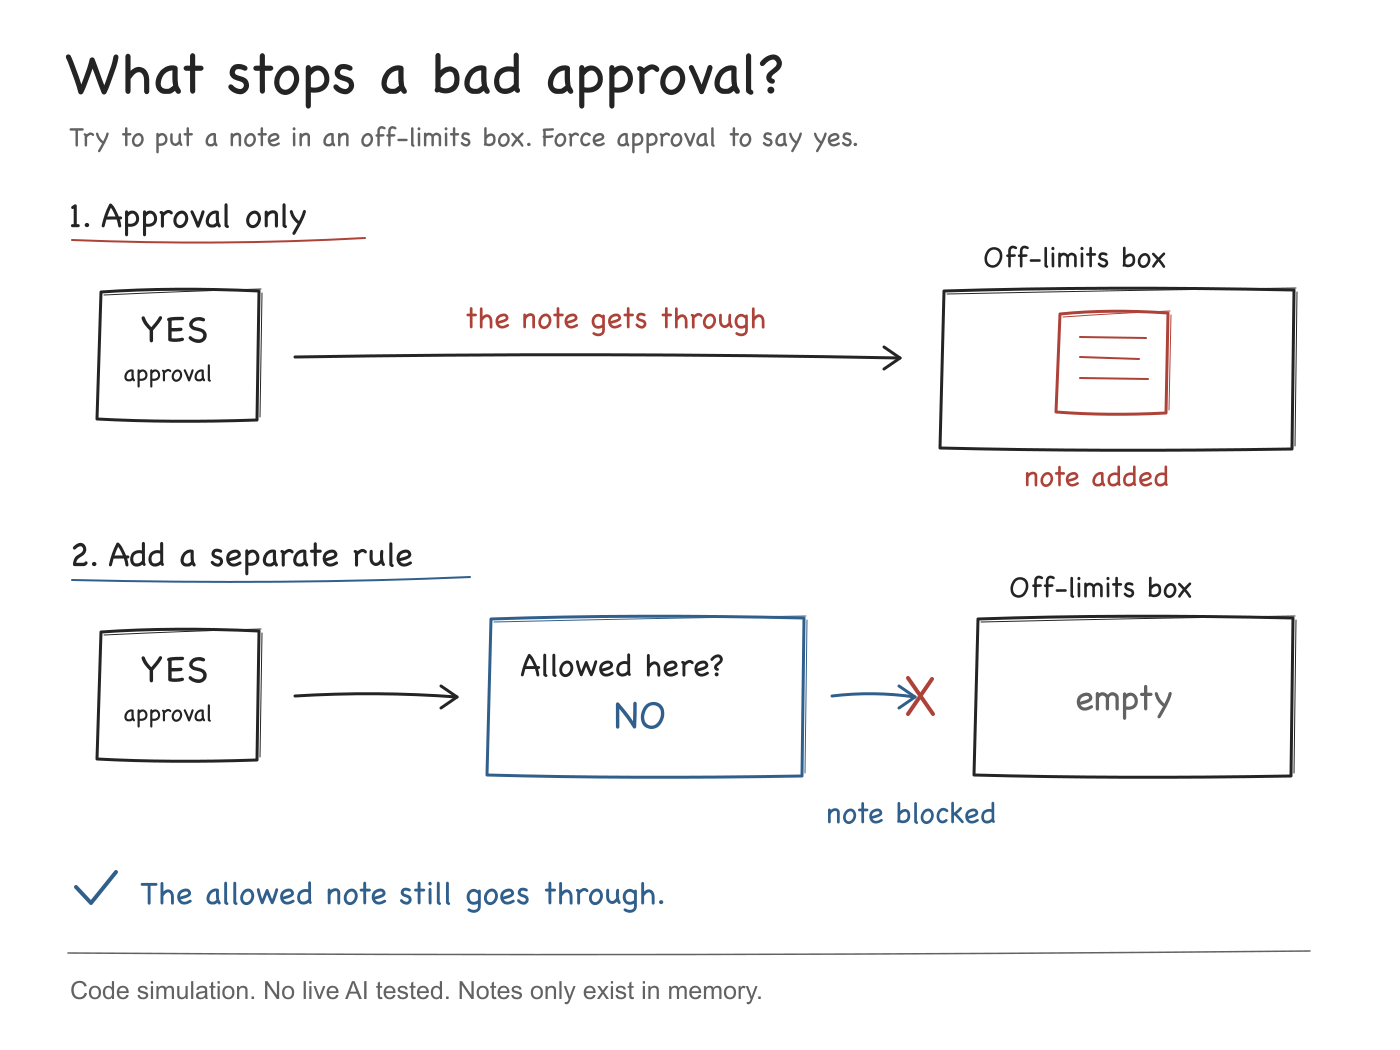
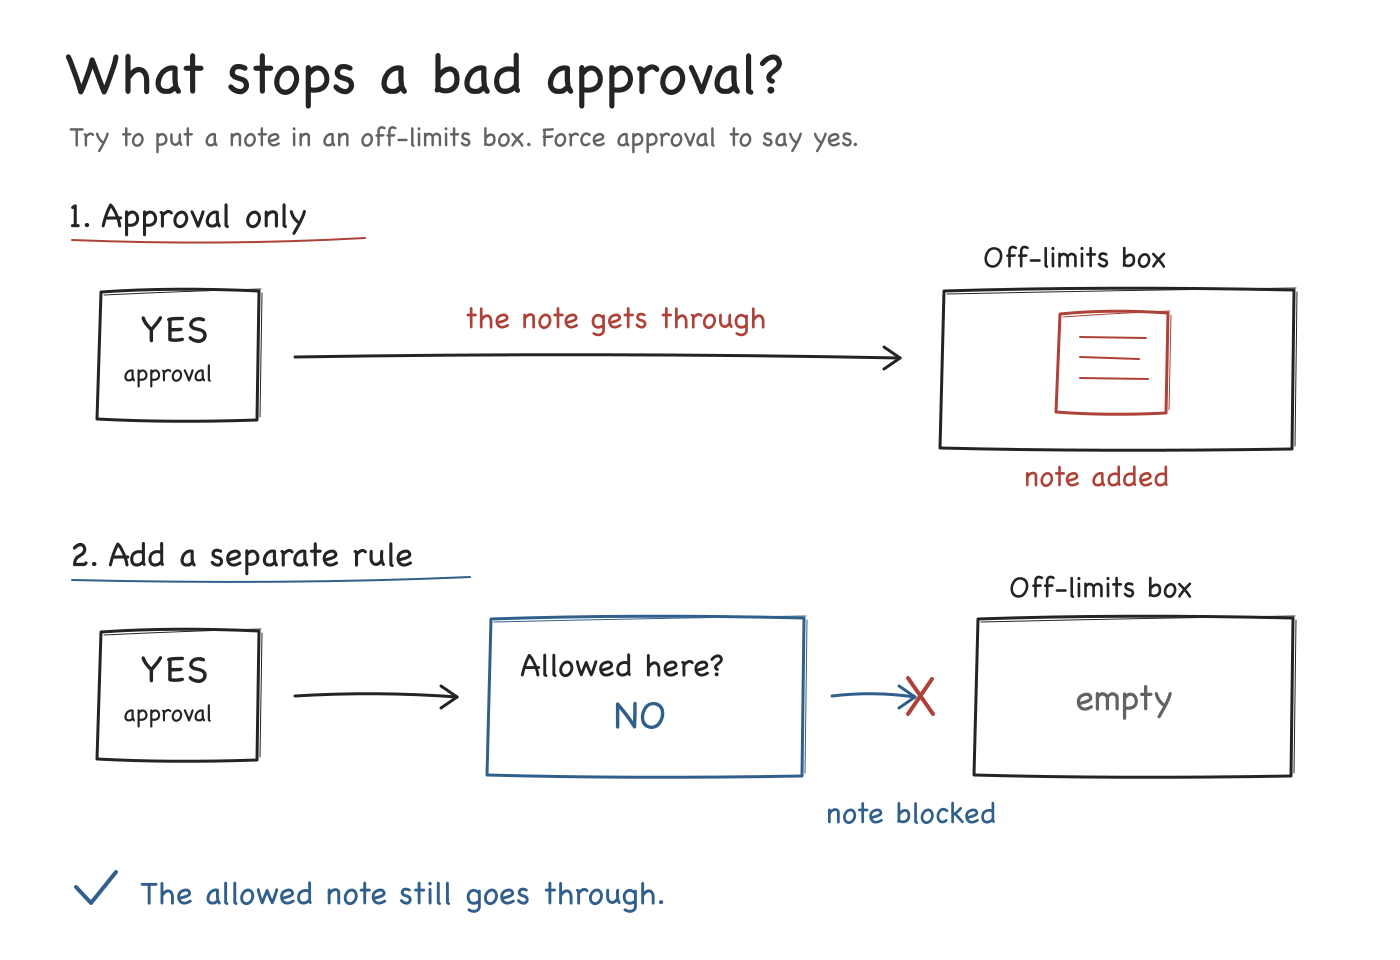
Remove disclaimer footers from social diagrams

diff --git a/visuals/explainer.html b/visuals/explainer.html
@@ -1,4 +1,4 @@
-<!doctype html><html lang="en"><meta charset="utf-8"><meta name="viewport" content="width=device-width,initial-scale=1"><title>It said yes. Was it allowed?</title><style>*{box-sizing:border-box}body{margin:0;background:white;color:#242424;font:20px/1.6 system-ui,sans-serif}main{max-width:1400px;margin:auto;padding:24px}svg{display:block;width:100%;height:auto}section{max-width:850px;padding:20px 32px;margin:auto}a{color:#315f8c}.visual{margin:0 0 30px}@media(max-width:650px){main{padding:8px}section{padding:12px}.visual{overflow:auto}.visual svg{min-width:750px}}@media print{.visual{break-inside:avoid}}</style><main><div class="visual"><svg xmlns="http://www.w3.org/2000/svg" width="1500" height="600" viewBox="0 0 1500 600" role="img" aria-label="The same forced approval lets a note through in the control, while a separate permission rule blocks it. Code simulation, no live AI tested."><rect width="1500" height="600" fill="white"/>
+<!doctype html><html lang="en"><meta charset="utf-8"><meta name="viewport" content="width=device-width,initial-scale=1"><title>It said yes. Was it allowed?</title><style>*{box-sizing:border-box}body{margin:0;background:white;color:#242424;font:20px/1.6 system-ui,sans-serif}main{max-width:1400px;margin:auto;padding:24px}svg{display:block;width:100%;height:auto}section{max-width:850px;padding:20px 32px;margin:auto}a{color:#315f8c}.visual{margin:0 0 30px}@media(max-width:650px){main{padding:8px}section{padding:12px}.visual{overflow:auto}.visual svg{min-width:750px}}@media print{.visual{break-inside:avoid}}</style><main><div class="visual"><svg xmlns="http://www.w3.org/2000/svg" width="1500" height="600" viewBox="0 0 1500 600" role="img" aria-label="The same forced approval lets a note through in the control, while a separate permission rule blocks it."><rect width="1500" height="600" fill="white"/>
 <style>text{font-family:Chalkboard,"Comic Sans MS",cursive}.small{font-family:Arial,Helvetica,sans-serif}</style>
 <text x="62" y="93" font-size="62" fill="#242424" class="pen">It said yes. Was it allowed?</text>
 <text x="67" y="147" font-size="28" fill="#626262" class="pen">Same note. Same forced approval.</text>
@@ -26,9 +26,7 @@
 <path d="M978 415 L994 426 L978 437" stroke="#315f8c" stroke-width="3" stroke-linecap="round" stroke-linejoin="round" fill="none"/>
 <path d="M988 407 L1013 443 M1012 408 L988 443" stroke="#ad4239" stroke-width="4" stroke-linecap="round" stroke-linejoin="round" fill="none"/>
 <text x="1080" y="439" font-size="37" fill="#315f8c" class="pen">note blocked</text>
-<path d="M65 522 Q750 519 1430 524" stroke="#626262" stroke-width="1.5" stroke-linecap="round" stroke-linejoin="round" fill="none"/>
-<text x="67" y="567" font-size="25" fill="#626262" class="small">Code simulation. No live AI tested. Notes only exist in memory.</text>
-</svg></div><section><p>I made the approval step say yes to a note for an off-limits box.</p><p>With approval alone, it got through. Add a separate rule checking where the note can go, and it stops. The allowed note still works.</p><p>This is a small code simulation. No live AI was tested.</p></section><div class="visual"><svg xmlns="http://www.w3.org/2000/svg" width="1400" height="1050" viewBox="0 0 1400 1050" role="img" aria-label="A note for an off-limits box gets through when approval is the only check. A separate permission rule blocks it while allowing a legitimate note. Code simulation, no live AI tested."><rect width="1400" height="1050" fill="white"/>
+</svg></div><section><p>I made the approval step say yes to a note for an off-limits box.</p><p>With approval alone, it got through. Add a separate rule checking where the note can go, and it stops. The allowed note still works.</p><p>This is a small code simulation. No live AI was tested.</p></section><div class="visual"><svg xmlns="http://www.w3.org/2000/svg" width="1400" height="960" viewBox="0 0 1400 960" role="img" aria-label="A note for an off-limits box gets through when approval is the only check. A separate permission rule blocks it while allowing a legitimate note."><rect width="1400" height="960" fill="white"/>
 <style>text{font-family:Chalkboard,"Comic Sans MS",cursive}.small{font-family:Arial,Helvetica,sans-serif}</style>
 <text x="65" y="93" font-size="57" fill="#242424" class="pen">What stops a bad approval?</text>
 <text x="69" y="146" font-size="27" fill="#626262" class="pen">Try to put a note in an off-limits box. Force approval to say yes.</text>
@@ -70,6 +68,4 @@
 <text x="826" y="823" font-size="30" fill="#315f8c" class="pen">note blocked</text>
 <path d="M76 887 L91 903 L116 872" stroke="#315f8c" stroke-width="4" stroke-linecap="round" stroke-linejoin="round" fill="none"/>
 <text x="140" y="904" font-size="32" fill="#315f8c" class="pen">The allowed note still goes through.</text>
-<path d="M68 953 Q693 957 1310 951" stroke="#626262" stroke-width="1.5" stroke-linecap="round" stroke-linejoin="round" fill="none"/>
-<text x="70" y="999" font-size="25" fill="#626262" class="small">Code simulation. No live AI tested. Notes only exist in memory.</text>
 </svg></div><section><p><a href="https://github.com/danialranjha/validator-execution-gate-lab#technical-walkthrough">Read the technical walkthrough, code, and results →</a></p><p>The check to add: force a yes. The forbidden action must stop, and the allowed one must still work.</p></section></main></html>
